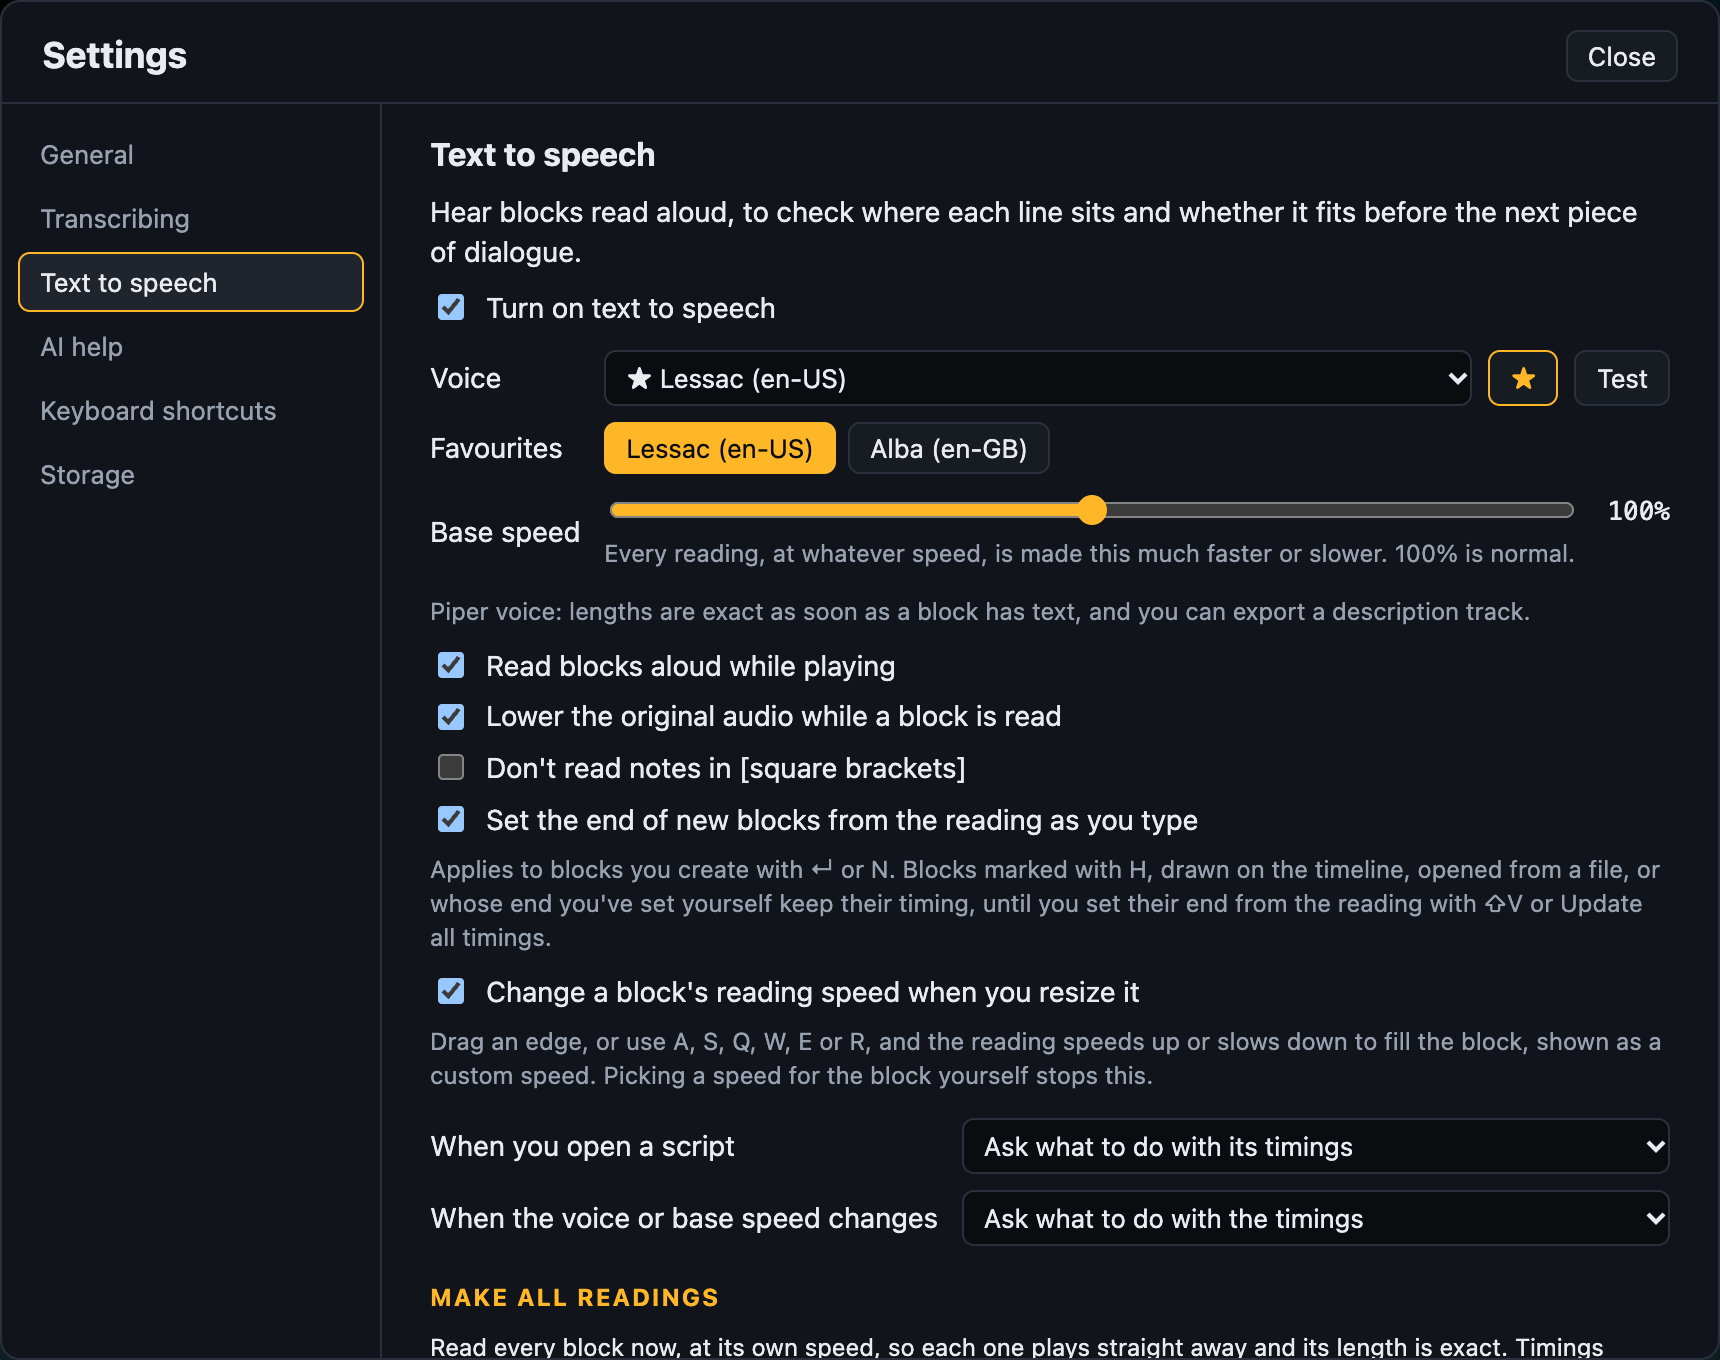
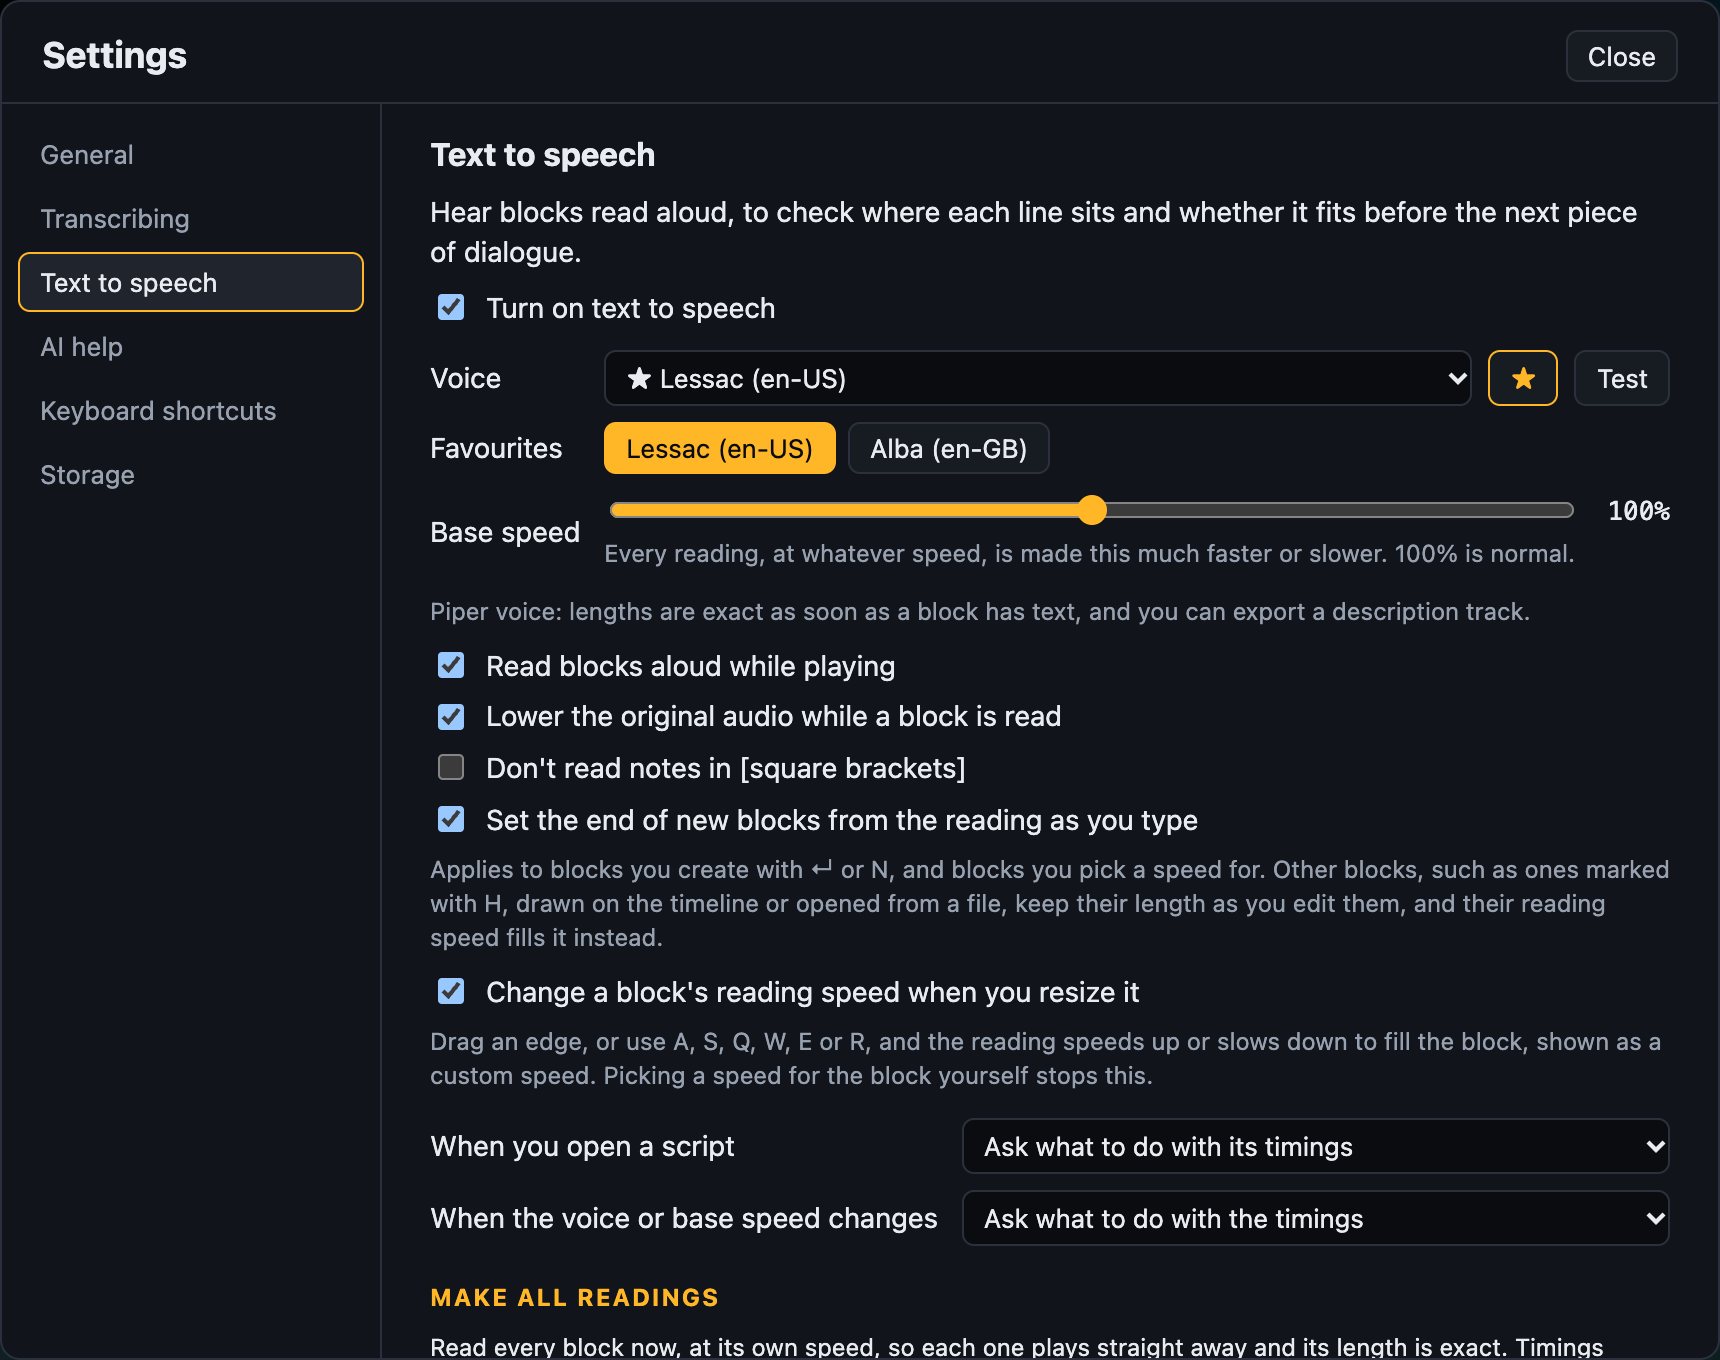
Have every edited block fit its reading
Editing a block's text now always makes it fit its reading: blocks
marked with H, drawn on the timeline or opened from a file keep their
length and their speed fills it, and a block with a speed picked by hand
has its end follow the reading. Before, these blocks kept both, so a
longer line ran over its block.

Changed region(s): [[0.2465, 0.6176, 0.986, 0.7103]]

diff --git a/app/js/app.js b/app/js/app.js
@@ -707,6 +707,7 @@ edText.addEventListener('input', () => {
   if (!c) return;
   if (!edit.pushed) { pushUndo(); edit.pushed = true; }
   c.text = edText.value;
+  if (ttsOn()) adapt(c);
   fitAuto(c) || fitSpeed(c);
   changed(c.id);
 });
@@ -1519,6 +1520,15 @@ function fitAuto(c) {
   c.end = end;
   return true;
 }
+// Every block being written fits its reading one way or the other: its end follows the
+// reading (new blocks, and blocks with a speed picked by hand), or its speed fills its
+// length (the rest, such as blocks marked with H, drawn on the timeline or opened from a
+// file), so a reading only runs over when nothing makes room for it.
+function adapt(c) {
+  if (c.auto || c.fit) return;
+  if (!c.pinned && tts.fitSpeed) c.fit = true;
+  else if (tts.autoEnd) c.auto = true;
+}
 // A block's length changed by hand: its start or end edge. With text to speech on and
 // "change a block's reading speed when you resize it", the reading's speed follows the
 // new length from now on. Otherwise a new end is simply kept, and an auto block whose
@@ -1895,6 +1905,8 @@ function setBlockSpeed(c, v) {
   // resizing fits the speed again.
   delete c.fit;
   if (c.speed) c.pinned = true; else delete c.pinned;
+  // The speed was picked, so the end follows the reading instead.
+  if (tts.autoEnd) c.auto = true;
   fitAuto(c);
   changed(c.id);
   tlDirty = true;

diff --git a/app/index.html b/app/index.html
@@ -522,9 +522,9 @@ docker compose up -d --build</code></pre>
       <label class="updopt"><input type="checkbox" id="ttsDuck"> Lower the original audio while a block is read</label>
       <label class="updopt"><input type="checkbox" id="ttsNotes"> Don't read notes in [square brackets]</label>
       <label class="updopt"><input type="checkbox" id="ttsAuto"> Set the end of new blocks from the reading as you type</label>
-      <p class="dim small">Applies to blocks you create with ↵ or N. Blocks marked with H, drawn on the timeline,
-        opened from a file, or whose end you've set yourself keep their timing, until you set their end from
-        the reading with ⇧V or Update all timings.</p>
+      <p class="dim small">Applies to blocks you create with ↵ or N, and blocks you pick a speed for. Other blocks,
+        such as ones marked with H, drawn on the timeline or opened from a file, keep their length as you edit
+        them, and their reading speed fills it instead.</p>
       <label class="updopt"><input type="checkbox" id="ttsFit"> Change a block's reading speed when you resize it</label>
       <p class="dim small">Drag an edge, or use A, S, Q, W, E or R, and the reading speeds up or slows down to fill the
         block, shown as a custom speed. Picking a speed for the block yourself stops this.</p>

diff --git a/README.md b/README.md
@@ -377,9 +377,14 @@ click it to take it out.
   slows down to fill the new length. The block's speed then shows as custom, such as
   `custom (−12%)`, and keeps fitting as you edit the text. It stays between −50% and
   +100%. Picking a speed for the block yourself, from its menu or with `[` `]`, keeps that
-  speed when you resize; setting it back to default lets resizing fit it again. Turn this
-  off with **Change a block's reading speed when you resize it** in the text to speech
-  settings.
+  speed when you resize, and the block's end follows the reading instead; resizing it after
+  setting it back to normal fits the speed again. Turn this off with **Change a block's
+  reading speed when you resize it** in the text to speech settings.
+- **Every block fits its reading:** as you edit a block, either its end follows the
+  reading, as in a new block, or its reading speed fills its length, as in a resized one.
+  Blocks marked with `H`, drawn on the timeline or opened from a file keep their length
+  and fit the speed. A reading only runs over its block, shown in red, when even +100% is
+  too slow or the next block is in the way.
 - **Sounds like:** when a voice says a name or word wrong, tell it how to say it, without
   changing the text. Select the word in the text box and click the **Sounds Like** button
   that pops up under it, or press `Alt+Shift+P`. The word is filled in for you, so spell
